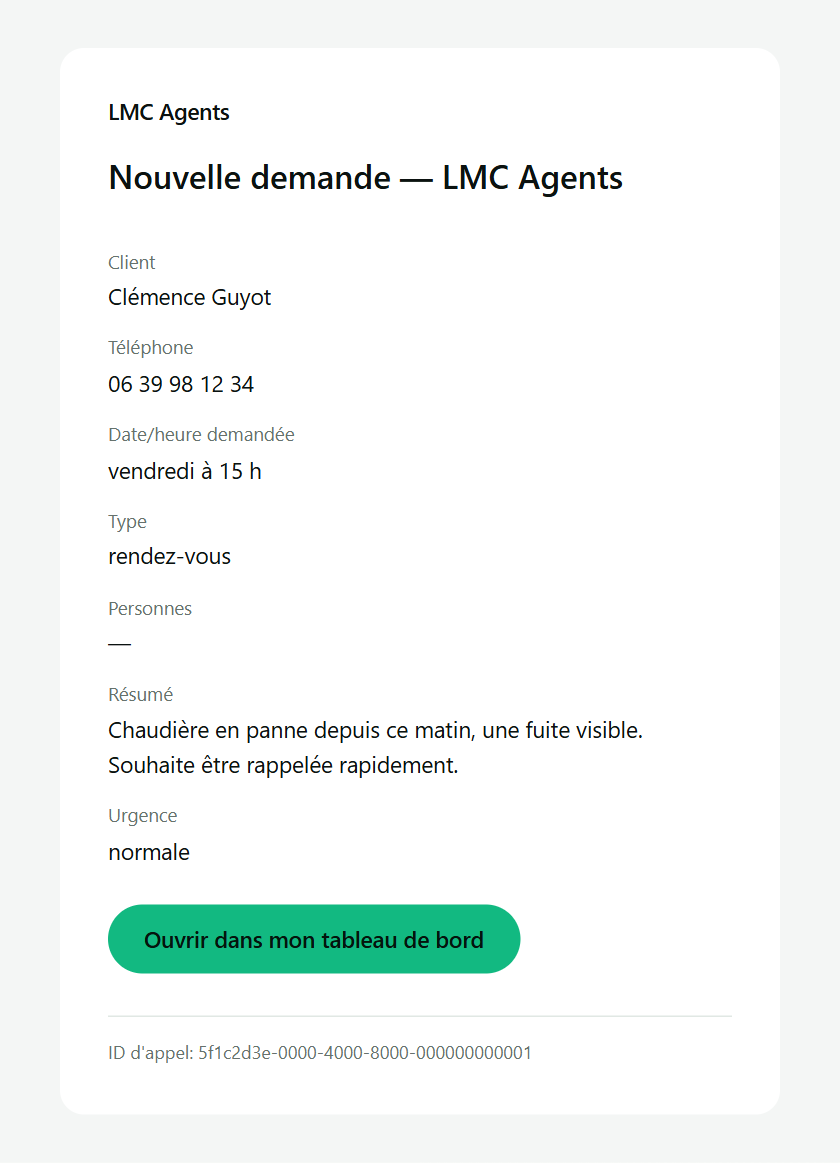
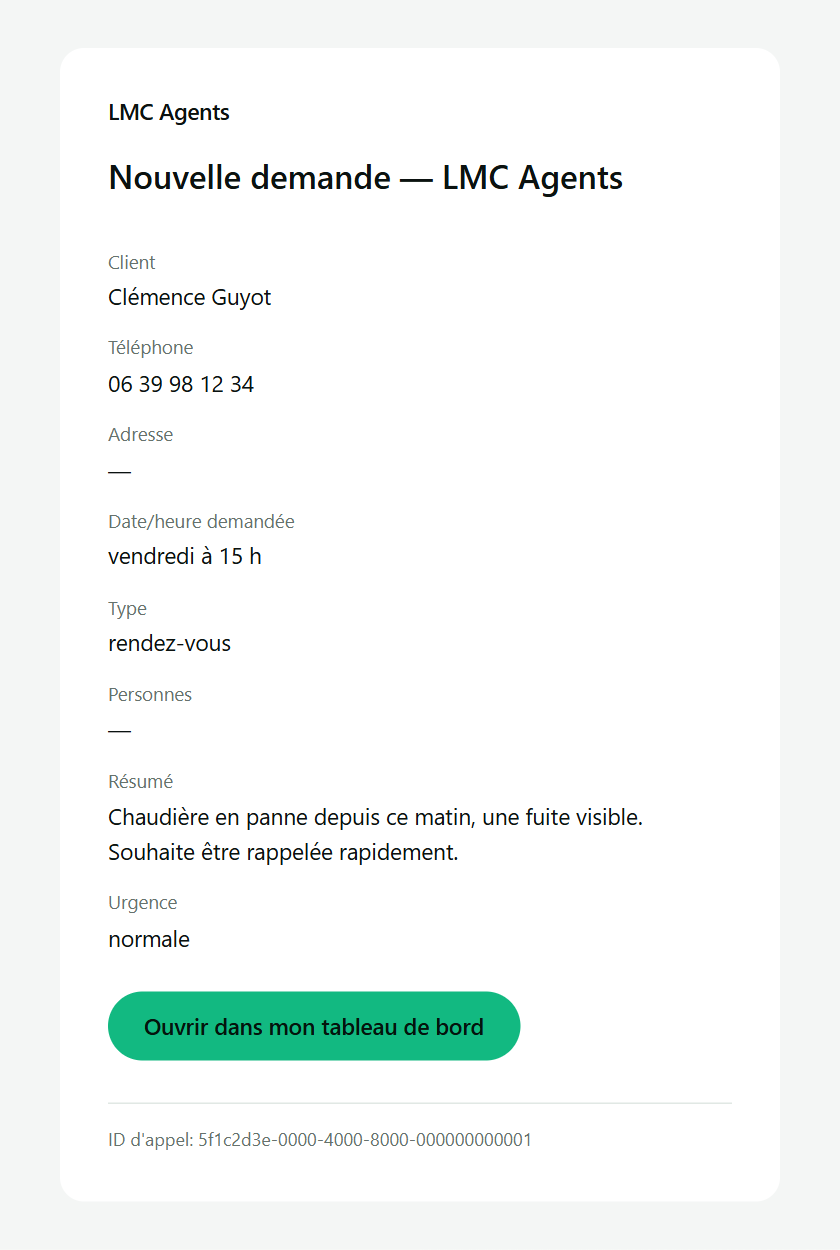
Notify restyle: keep the Address row (with Open in Maps, or a dash) in both emails, EN/ES/FR
After rebasing onto main (address field, availability hardening): the restyled layout now renders the Address row in the urgent/routine email and in the extraction-failed email (always a dash there, nothing was extracted), the inbound log line is kept next to system_timezone, tests updated (91 pass), and docs/email-previews/ re-rendered with screenshots of every variant.

diff --git a/docs/email-previews/fr-urgent.html b/docs/email-previews/fr-urgent.html
@@ -15,7 +15,7 @@
         <tr><td style="padding-bottom:14px;"><span style="display:inline-block;background:#fdecea;color:#b3261e;border-radius:999px;padding:4px 12px;font-size:12px;font-weight:600;">élevée</span></td></tr>
         <tr><td style="font-size:22px;font-weight:600;line-height:1.25;padding-bottom:10px;">Nouvelle demande — LMC Agents</td></tr>
         <tr><td style="font-size:15px;line-height:1.6;color:#33403b;padding-bottom:24px;"></td></tr>
-        <tr><td style="padding-bottom:14px;"><div style="font-size:12.5px;line-height:1.4;color:#66726d;padding-bottom:3px;">Client</div><div style="font-size:15px;line-height:1.55;color:#0b1210;">Clémence Guyot</div></td></tr><tr><td style="padding-bottom:14px;"><div style="font-size:12.5px;line-height:1.4;color:#66726d;padding-bottom:3px;">Téléphone</div><div style="font-size:15px;line-height:1.55;color:#0b1210;">06 39 98 12 34</div></td></tr><tr><td style="padding-bottom:14px;"><div style="font-size:12.5px;line-height:1.4;color:#66726d;padding-bottom:3px;">Date/heure demandée</div><div style="font-size:15px;line-height:1.55;color:#0b1210;">vendredi à 15 h</div></td></tr><tr><td style="padding-bottom:14px;"><div style="font-size:12.5px;line-height:1.4;color:#66726d;padding-bottom:3px;">Type</div><div style="font-size:15px;line-height:1.55;color:#0b1210;">rendez-vous</div></td></tr><tr><td style="padding-bottom:14px;"><div style="font-size:12.5px;line-height:1.4;color:#66726d;padding-bottom:3px;">Personnes</div><div style="font-size:15px;line-height:1.55;color:#0b1210;">—</div></td></tr><tr><td style="padding-bottom:14px;"><div style="font-size:12.5px;line-height:1.4;color:#66726d;padding-bottom:3px;">Résumé</div><div style="font-size:15px;line-height:1.55;color:#0b1210;">Chaudière en panne depuis ce matin, une fuite visible. Souhaite être rappelée rapidement.</div></td></tr><tr><td style="padding-bottom:14px;"><div style="font-size:12.5px;line-height:1.4;color:#66726d;padding-bottom:3px;">Urgence</div><div style="font-size:15px;line-height:1.55;color:#0b1210;">élevée</div></td></tr>
+        <tr><td style="padding-bottom:14px;"><div style="font-size:12.5px;line-height:1.4;color:#66726d;padding-bottom:3px;">Client</div><div style="font-size:15px;line-height:1.55;color:#0b1210;">Clémence Guyot</div></td></tr><tr><td style="padding-bottom:14px;"><div style="font-size:12.5px;line-height:1.4;color:#66726d;padding-bottom:3px;">Téléphone</div><div style="font-size:15px;line-height:1.55;color:#0b1210;">06 39 98 12 34</div></td></tr><tr><td style="padding-bottom:14px;"><div style="font-size:12.5px;line-height:1.4;color:#66726d;padding-bottom:3px;">Adresse</div><div style="font-size:15px;line-height:1.55;color:#0b1210;">14 rue des Tilleuls, Lyon<br><a href="https://www.google.com/maps/search/?api=1&amp;query=14%20rue%20des%20Tilleuls%2C%20Lyon" style="font-size:13px;font-weight:600;color:#0a8f64;text-decoration:none;">Ouvrir dans Maps →</a></div></td></tr><tr><td style="padding-bottom:14px;"><div style="font-size:12.5px;line-height:1.4;color:#66726d;padding-bottom:3px;">Date/heure demandée</div><div style="font-size:15px;line-height:1.55;color:#0b1210;">vendredi à 15 h</div></td></tr><tr><td style="padding-bottom:14px;"><div style="font-size:12.5px;line-height:1.4;color:#66726d;padding-bottom:3px;">Type</div><div style="font-size:15px;line-height:1.55;color:#0b1210;">rendez-vous</div></td></tr><tr><td style="padding-bottom:14px;"><div style="font-size:12.5px;line-height:1.4;color:#66726d;padding-bottom:3px;">Personnes</div><div style="font-size:15px;line-height:1.55;color:#0b1210;">—</div></td></tr><tr><td style="padding-bottom:14px;"><div style="font-size:12.5px;line-height:1.4;color:#66726d;padding-bottom:3px;">Résumé</div><div style="font-size:15px;line-height:1.55;color:#0b1210;">Chaudière en panne depuis ce matin, une fuite visible. Souhaite être rappelée rapidement.</div></td></tr><tr><td style="padding-bottom:14px;"><div style="font-size:12.5px;line-height:1.4;color:#66726d;padding-bottom:3px;">Urgence</div><div style="font-size:15px;line-height:1.55;color:#0b1210;">élevée</div></td></tr>
         <tr><td style="padding-top:10px;padding-bottom:28px;"><a href="https://www.lmcagents.app/dashboard/calls/5f1c2d3e-0000-4000-8000-000000000001" style="display:inline-block;background:#12b981;color:#04140d;font-size:15px;font-weight:600;text-decoration:none;padding:13px 24px;border-radius:999px;">Ouvrir dans mon tableau de bord</a></td></tr>
         <tr><td style="font-size:12px;line-height:1.6;color:#66726d;border-top:1px solid #e1e8e4;padding-top:14px;">ID d'appel: 5f1c2d3e-0000-4000-8000-000000000001</td></tr>
       </table>

diff --git a/docs/email-previews/es-urgent.html b/docs/email-previews/es-urgent.html
@@ -15,7 +15,7 @@
         <tr><td style="padding-bottom:14px;"><span style="display:inline-block;background:#fdecea;color:#b3261e;border-radius:999px;padding:4px 12px;font-size:12px;font-weight:600;">alta</span></td></tr>
         <tr><td style="font-size:22px;font-weight:600;line-height:1.25;padding-bottom:10px;">Nueva solicitud — LMC Agents</td></tr>
         <tr><td style="font-size:15px;line-height:1.6;color:#33403b;padding-bottom:24px;"></td></tr>
-        <tr><td style="padding-bottom:14px;"><div style="font-size:12.5px;line-height:1.4;color:#66726d;padding-bottom:3px;">Cliente</div><div style="font-size:15px;line-height:1.55;color:#0b1210;">Diego Salvatierra</div></td></tr><tr><td style="padding-bottom:14px;"><div style="font-size:12.5px;line-height:1.4;color:#66726d;padding-bottom:3px;">Teléfono</div><div style="font-size:15px;line-height:1.55;color:#0b1210;">+34 6•• ••• 482</div></td></tr><tr><td style="padding-bottom:14px;"><div style="font-size:12.5px;line-height:1.4;color:#66726d;padding-bottom:3px;">Fecha/hora solicitada</div><div style="font-size:15px;line-height:1.55;color:#0b1210;">el viernes a las 15:00</div></td></tr><tr><td style="padding-bottom:14px;"><div style="font-size:12.5px;line-height:1.4;color:#66726d;padding-bottom:3px;">Tipo</div><div style="font-size:15px;line-height:1.55;color:#0b1210;">cita</div></td></tr><tr><td style="padding-bottom:14px;"><div style="font-size:12.5px;line-height:1.4;color:#66726d;padding-bottom:3px;">Personas</div><div style="font-size:15px;line-height:1.55;color:#0b1210;">—</div></td></tr><tr><td style="padding-bottom:14px;"><div style="font-size:12.5px;line-height:1.4;color:#66726d;padding-bottom:3px;">Resumen</div><div style="font-size:15px;line-height:1.55;color:#0b1210;">Sin agua caliente en la vivienda desde ayer. Pide que alguien pase hoy si es posible.</div></td></tr><tr><td style="padding-bottom:14px;"><div style="font-size:12.5px;line-height:1.4;color:#66726d;padding-bottom:3px;">Urgencia</div><div style="font-size:15px;line-height:1.55;color:#0b1210;">alta</div></td></tr>
+        <tr><td style="padding-bottom:14px;"><div style="font-size:12.5px;line-height:1.4;color:#66726d;padding-bottom:3px;">Cliente</div><div style="font-size:15px;line-height:1.55;color:#0b1210;">Diego Salvatierra</div></td></tr><tr><td style="padding-bottom:14px;"><div style="font-size:12.5px;line-height:1.4;color:#66726d;padding-bottom:3px;">Teléfono</div><div style="font-size:15px;line-height:1.55;color:#0b1210;">+34 6•• ••• 482</div></td></tr><tr><td style="padding-bottom:14px;"><div style="font-size:12.5px;line-height:1.4;color:#66726d;padding-bottom:3px;">Dirección</div><div style="font-size:15px;line-height:1.55;color:#0b1210;">Calle de los Olmos 14, Zaragoza<br><a href="https://www.google.com/maps/search/?api=1&amp;query=Calle%20de%20los%20Olmos%2014%2C%20Zaragoza" style="font-size:13px;font-weight:600;color:#0a8f64;text-decoration:none;">Abrir en Maps →</a></div></td></tr><tr><td style="padding-bottom:14px;"><div style="font-size:12.5px;line-height:1.4;color:#66726d;padding-bottom:3px;">Fecha/hora solicitada</div><div style="font-size:15px;line-height:1.55;color:#0b1210;">el viernes a las 15:00</div></td></tr><tr><td style="padding-bottom:14px;"><div style="font-size:12.5px;line-height:1.4;color:#66726d;padding-bottom:3px;">Tipo</div><div style="font-size:15px;line-height:1.55;color:#0b1210;">cita</div></td></tr><tr><td style="padding-bottom:14px;"><div style="font-size:12.5px;line-height:1.4;color:#66726d;padding-bottom:3px;">Personas</div><div style="font-size:15px;line-height:1.55;color:#0b1210;">—</div></td></tr><tr><td style="padding-bottom:14px;"><div style="font-size:12.5px;line-height:1.4;color:#66726d;padding-bottom:3px;">Resumen</div><div style="font-size:15px;line-height:1.55;color:#0b1210;">Sin agua caliente en la vivienda desde ayer. Pide que alguien pase hoy si es posible.</div></td></tr><tr><td style="padding-bottom:14px;"><div style="font-size:12.5px;line-height:1.4;color:#66726d;padding-bottom:3px;">Urgencia</div><div style="font-size:15px;line-height:1.55;color:#0b1210;">alta</div></td></tr>
         <tr><td style="padding-top:10px;padding-bottom:28px;"><a href="https://www.lmcagents.app/dashboard/calls/5f1c2d3e-0000-4000-8000-000000000001" style="display:inline-block;background:#12b981;color:#04140d;font-size:15px;font-weight:600;text-decoration:none;padding:13px 24px;border-radius:999px;">Abrir en mi panel</a></td></tr>
         <tr><td style="font-size:12px;line-height:1.6;color:#66726d;border-top:1px solid #e1e8e4;padding-top:14px;">ID de llamada: 5f1c2d3e-0000-4000-8000-000000000001</td></tr>
       </table>

diff --git a/docs/email-previews/en-urgent.html b/docs/email-previews/en-urgent.html
@@ -15,7 +15,7 @@
         <tr><td style="padding-bottom:14px;"><span style="display:inline-block;background:#fdecea;color:#b3261e;border-radius:999px;padding:4px 12px;font-size:12px;font-weight:600;">high</span></td></tr>
         <tr><td style="font-size:22px;font-weight:600;line-height:1.25;padding-bottom:10px;">New request — LMC Agents</td></tr>
         <tr><td style="font-size:15px;line-height:1.6;color:#33403b;padding-bottom:24px;"></td></tr>
-        <tr><td style="padding-bottom:14px;"><div style="font-size:12.5px;line-height:1.4;color:#66726d;padding-bottom:3px;">Client</div><div style="font-size:15px;line-height:1.55;color:#0b1210;">Megan Pollard</div></td></tr><tr><td style="padding-bottom:14px;"><div style="font-size:12.5px;line-height:1.4;color:#66726d;padding-bottom:3px;">Phone</div><div style="font-size:15px;line-height:1.55;color:#0b1210;">07700 900123</div></td></tr><tr><td style="padding-bottom:14px;"><div style="font-size:12.5px;line-height:1.4;color:#66726d;padding-bottom:3px;">Requested date/time</div><div style="font-size:15px;line-height:1.55;color:#0b1210;">Friday at 3 pm</div></td></tr><tr><td style="padding-bottom:14px;"><div style="font-size:12.5px;line-height:1.4;color:#66726d;padding-bottom:3px;">Type</div><div style="font-size:15px;line-height:1.55;color:#0b1210;">appointment</div></td></tr><tr><td style="padding-bottom:14px;"><div style="font-size:12.5px;line-height:1.4;color:#66726d;padding-bottom:3px;">Party size</div><div style="font-size:15px;line-height:1.55;color:#0b1210;">—</div></td></tr><tr><td style="padding-bottom:14px;"><div style="font-size:12.5px;line-height:1.4;color:#66726d;padding-bottom:3px;">Summary</div><div style="font-size:15px;line-height:1.55;color:#0b1210;">Blocked toilet overflowing, needs someone today. Access through the side gate.</div></td></tr><tr><td style="padding-bottom:14px;"><div style="font-size:12.5px;line-height:1.4;color:#66726d;padding-bottom:3px;">Urgency</div><div style="font-size:15px;line-height:1.55;color:#0b1210;">high</div></td></tr>
+        <tr><td style="padding-bottom:14px;"><div style="font-size:12.5px;line-height:1.4;color:#66726d;padding-bottom:3px;">Client</div><div style="font-size:15px;line-height:1.55;color:#0b1210;">Megan Pollard</div></td></tr><tr><td style="padding-bottom:14px;"><div style="font-size:12.5px;line-height:1.4;color:#66726d;padding-bottom:3px;">Phone</div><div style="font-size:15px;line-height:1.55;color:#0b1210;">07700 900123</div></td></tr><tr><td style="padding-bottom:14px;"><div style="font-size:12.5px;line-height:1.4;color:#66726d;padding-bottom:3px;">Address</div><div style="font-size:15px;line-height:1.55;color:#0b1210;">14 Hawthorn Road, Leeds<br><a href="https://www.google.com/maps/search/?api=1&amp;query=14%20Hawthorn%20Road%2C%20Leeds" style="font-size:13px;font-weight:600;color:#0a8f64;text-decoration:none;">Open in Maps →</a></div></td></tr><tr><td style="padding-bottom:14px;"><div style="font-size:12.5px;line-height:1.4;color:#66726d;padding-bottom:3px;">Requested date/time</div><div style="font-size:15px;line-height:1.55;color:#0b1210;">Friday at 3 pm</div></td></tr><tr><td style="padding-bottom:14px;"><div style="font-size:12.5px;line-height:1.4;color:#66726d;padding-bottom:3px;">Type</div><div style="font-size:15px;line-height:1.55;color:#0b1210;">appointment</div></td></tr><tr><td style="padding-bottom:14px;"><div style="font-size:12.5px;line-height:1.4;color:#66726d;padding-bottom:3px;">Party size</div><div style="font-size:15px;line-height:1.55;color:#0b1210;">—</div></td></tr><tr><td style="padding-bottom:14px;"><div style="font-size:12.5px;line-height:1.4;color:#66726d;padding-bottom:3px;">Summary</div><div style="font-size:15px;line-height:1.55;color:#0b1210;">Blocked toilet overflowing, needs someone today. Access through the side gate.</div></td></tr><tr><td style="padding-bottom:14px;"><div style="font-size:12.5px;line-height:1.4;color:#66726d;padding-bottom:3px;">Urgency</div><div style="font-size:15px;line-height:1.55;color:#0b1210;">high</div></td></tr>
         <tr><td style="padding-top:10px;padding-bottom:28px;"><a href="https://www.lmcagents.app/dashboard/calls/5f1c2d3e-0000-4000-8000-000000000001" style="display:inline-block;background:#12b981;color:#04140d;font-size:15px;font-weight:600;text-decoration:none;padding:13px 24px;border-radius:999px;">Open in my dashboard</a></td></tr>
         <tr><td style="font-size:12px;line-height:1.6;color:#66726d;border-top:1px solid #e1e8e4;padding-top:14px;">Call ID: 5f1c2d3e-0000-4000-8000-000000000001</td></tr>
       </table>

diff --git a/docs/email-previews/fr-routine.html b/docs/email-previews/fr-routine.html
@@ -15,7 +15,7 @@
         
         <tr><td style="font-size:22px;font-weight:600;line-height:1.25;padding-bottom:10px;">Nouvelle demande — LMC Agents</td></tr>
         <tr><td style="font-size:15px;line-height:1.6;color:#33403b;padding-bottom:24px;"></td></tr>
-        <tr><td style="padding-bottom:14px;"><div style="font-size:12.5px;line-height:1.4;color:#66726d;padding-bottom:3px;">Client</div><div style="font-size:15px;line-height:1.55;color:#0b1210;">Clémence Guyot</div></td></tr><tr><td style="padding-bottom:14px;"><div style="font-size:12.5px;line-height:1.4;color:#66726d;padding-bottom:3px;">Téléphone</div><div style="font-size:15px;line-height:1.55;color:#0b1210;">06 39 98 12 34</div></td></tr><tr><td style="padding-bottom:14px;"><div style="font-size:12.5px;line-height:1.4;color:#66726d;padding-bottom:3px;">Date/heure demandée</div><div style="font-size:15px;line-height:1.55;color:#0b1210;">vendredi à 15 h</div></td></tr><tr><td style="padding-bottom:14px;"><div style="font-size:12.5px;line-height:1.4;color:#66726d;padding-bottom:3px;">Type</div><div style="font-size:15px;line-height:1.55;color:#0b1210;">rendez-vous</div></td></tr><tr><td style="padding-bottom:14px;"><div style="font-size:12.5px;line-height:1.4;color:#66726d;padding-bottom:3px;">Personnes</div><div style="font-size:15px;line-height:1.55;color:#0b1210;">—</div></td></tr><tr><td style="padding-bottom:14px;"><div style="font-size:12.5px;line-height:1.4;color:#66726d;padding-bottom:3px;">Résumé</div><div style="font-size:15px;line-height:1.55;color:#0b1210;">Chaudière en panne depuis ce matin, une fuite visible. Souhaite être rappelée rapidement.</div></td></tr><tr><td style="padding-bottom:14px;"><div style="font-size:12.5px;line-height:1.4;color:#66726d;padding-bottom:3px;">Urgence</div><div style="font-size:15px;line-height:1.55;color:#0b1210;">normale</div></td></tr>
+        <tr><td style="padding-bottom:14px;"><div style="font-size:12.5px;line-height:1.4;color:#66726d;padding-bottom:3px;">Client</div><div style="font-size:15px;line-height:1.55;color:#0b1210;">Clémence Guyot</div></td></tr><tr><td style="padding-bottom:14px;"><div style="font-size:12.5px;line-height:1.4;color:#66726d;padding-bottom:3px;">Téléphone</div><div style="font-size:15px;line-height:1.55;color:#0b1210;">06 39 98 12 34</div></td></tr><tr><td style="padding-bottom:14px;"><div style="font-size:12.5px;line-height:1.4;color:#66726d;padding-bottom:3px;">Adresse</div><div style="font-size:15px;line-height:1.55;color:#0b1210;">—</div></td></tr><tr><td style="padding-bottom:14px;"><div style="font-size:12.5px;line-height:1.4;color:#66726d;padding-bottom:3px;">Date/heure demandée</div><div style="font-size:15px;line-height:1.55;color:#0b1210;">vendredi à 15 h</div></td></tr><tr><td style="padding-bottom:14px;"><div style="font-size:12.5px;line-height:1.4;color:#66726d;padding-bottom:3px;">Type</div><div style="font-size:15px;line-height:1.55;color:#0b1210;">rendez-vous</div></td></tr><tr><td style="padding-bottom:14px;"><div style="font-size:12.5px;line-height:1.4;color:#66726d;padding-bottom:3px;">Personnes</div><div style="font-size:15px;line-height:1.55;color:#0b1210;">—</div></td></tr><tr><td style="padding-bottom:14px;"><div style="font-size:12.5px;line-height:1.4;color:#66726d;padding-bottom:3px;">Résumé</div><div style="font-size:15px;line-height:1.55;color:#0b1210;">Chaudière en panne depuis ce matin, une fuite visible. Souhaite être rappelée rapidement.</div></td></tr><tr><td style="padding-bottom:14px;"><div style="font-size:12.5px;line-height:1.4;color:#66726d;padding-bottom:3px;">Urgence</div><div style="font-size:15px;line-height:1.55;color:#0b1210;">normale</div></td></tr>
         <tr><td style="padding-top:10px;padding-bottom:28px;"><a href="https://www.lmcagents.app/dashboard/calls/5f1c2d3e-0000-4000-8000-000000000001" style="display:inline-block;background:#12b981;color:#04140d;font-size:15px;font-weight:600;text-decoration:none;padding:13px 24px;border-radius:999px;">Ouvrir dans mon tableau de bord</a></td></tr>
         <tr><td style="font-size:12px;line-height:1.6;color:#66726d;border-top:1px solid #e1e8e4;padding-top:14px;">ID d'appel: 5f1c2d3e-0000-4000-8000-000000000001</td></tr>
       </table>

diff --git a/docs/email-previews/es-routine.html b/docs/email-previews/es-routine.html
@@ -15,7 +15,7 @@
         
         <tr><td style="font-size:22px;font-weight:600;line-height:1.25;padding-bottom:10px;">Nueva solicitud — LMC Agents</td></tr>
         <tr><td style="font-size:15px;line-height:1.6;color:#33403b;padding-bottom:24px;"></td></tr>
-        <tr><td style="padding-bottom:14px;"><div style="font-size:12.5px;line-height:1.4;color:#66726d;padding-bottom:3px;">Cliente</div><div style="font-size:15px;line-height:1.55;color:#0b1210;">Diego Salvatierra</div></td></tr><tr><td style="padding-bottom:14px;"><div style="font-size:12.5px;line-height:1.4;color:#66726d;padding-bottom:3px;">Teléfono</div><div style="font-size:15px;line-height:1.55;color:#0b1210;">+34 6•• ••• 482</div></td></tr><tr><td style="padding-bottom:14px;"><div style="font-size:12.5px;line-height:1.4;color:#66726d;padding-bottom:3px;">Fecha/hora solicitada</div><div style="font-size:15px;line-height:1.55;color:#0b1210;">el viernes a las 15:00</div></td></tr><tr><td style="padding-bottom:14px;"><div style="font-size:12.5px;line-height:1.4;color:#66726d;padding-bottom:3px;">Tipo</div><div style="font-size:15px;line-height:1.55;color:#0b1210;">cita</div></td></tr><tr><td style="padding-bottom:14px;"><div style="font-size:12.5px;line-height:1.4;color:#66726d;padding-bottom:3px;">Personas</div><div style="font-size:15px;line-height:1.55;color:#0b1210;">—</div></td></tr><tr><td style="padding-bottom:14px;"><div style="font-size:12.5px;line-height:1.4;color:#66726d;padding-bottom:3px;">Resumen</div><div style="font-size:15px;line-height:1.55;color:#0b1210;">Sin agua caliente en la vivienda desde ayer. Pide que alguien pase hoy si es posible.</div></td></tr><tr><td style="padding-bottom:14px;"><div style="font-size:12.5px;line-height:1.4;color:#66726d;padding-bottom:3px;">Urgencia</div><div style="font-size:15px;line-height:1.55;color:#0b1210;">normal</div></td></tr>
+        <tr><td style="padding-bottom:14px;"><div style="font-size:12.5px;line-height:1.4;color:#66726d;padding-bottom:3px;">Cliente</div><div style="font-size:15px;line-height:1.55;color:#0b1210;">Diego Salvatierra</div></td></tr><tr><td style="padding-bottom:14px;"><div style="font-size:12.5px;line-height:1.4;color:#66726d;padding-bottom:3px;">Teléfono</div><div style="font-size:15px;line-height:1.55;color:#0b1210;">+34 6•• ••• 482</div></td></tr><tr><td style="padding-bottom:14px;"><div style="font-size:12.5px;line-height:1.4;color:#66726d;padding-bottom:3px;">Dirección</div><div style="font-size:15px;line-height:1.55;color:#0b1210;">—</div></td></tr><tr><td style="padding-bottom:14px;"><div style="font-size:12.5px;line-height:1.4;color:#66726d;padding-bottom:3px;">Fecha/hora solicitada</div><div style="font-size:15px;line-height:1.55;color:#0b1210;">el viernes a las 15:00</div></td></tr><tr><td style="padding-bottom:14px;"><div style="font-size:12.5px;line-height:1.4;color:#66726d;padding-bottom:3px;">Tipo</div><div style="font-size:15px;line-height:1.55;color:#0b1210;">cita</div></td></tr><tr><td style="padding-bottom:14px;"><div style="font-size:12.5px;line-height:1.4;color:#66726d;padding-bottom:3px;">Personas</div><div style="font-size:15px;line-height:1.55;color:#0b1210;">—</div></td></tr><tr><td style="padding-bottom:14px;"><div style="font-size:12.5px;line-height:1.4;color:#66726d;padding-bottom:3px;">Resumen</div><div style="font-size:15px;line-height:1.55;color:#0b1210;">Sin agua caliente en la vivienda desde ayer. Pide que alguien pase hoy si es posible.</div></td></tr><tr><td style="padding-bottom:14px;"><div style="font-size:12.5px;line-height:1.4;color:#66726d;padding-bottom:3px;">Urgencia</div><div style="font-size:15px;line-height:1.55;color:#0b1210;">normal</div></td></tr>
         <tr><td style="padding-top:10px;padding-bottom:28px;"><a href="https://www.lmcagents.app/dashboard/calls/5f1c2d3e-0000-4000-8000-000000000001" style="display:inline-block;background:#12b981;color:#04140d;font-size:15px;font-weight:600;text-decoration:none;padding:13px 24px;border-radius:999px;">Abrir en mi panel</a></td></tr>
         <tr><td style="font-size:12px;line-height:1.6;color:#66726d;border-top:1px solid #e1e8e4;padding-top:14px;">ID de llamada: 5f1c2d3e-0000-4000-8000-000000000001</td></tr>
       </table>

diff --git a/docs/email-previews/en-routine.html b/docs/email-previews/en-routine.html
@@ -15,7 +15,7 @@
         
         <tr><td style="font-size:22px;font-weight:600;line-height:1.25;padding-bottom:10px;">New request — LMC Agents</td></tr>
         <tr><td style="font-size:15px;line-height:1.6;color:#33403b;padding-bottom:24px;"></td></tr>
-        <tr><td style="padding-bottom:14px;"><div style="font-size:12.5px;line-height:1.4;color:#66726d;padding-bottom:3px;">Client</div><div style="font-size:15px;line-height:1.55;color:#0b1210;">Megan Pollard</div></td></tr><tr><td style="padding-bottom:14px;"><div style="font-size:12.5px;line-height:1.4;color:#66726d;padding-bottom:3px;">Phone</div><div style="font-size:15px;line-height:1.55;color:#0b1210;">07700 900123</div></td></tr><tr><td style="padding-bottom:14px;"><div style="font-size:12.5px;line-height:1.4;color:#66726d;padding-bottom:3px;">Requested date/time</div><div style="font-size:15px;line-height:1.55;color:#0b1210;">Friday at 3 pm</div></td></tr><tr><td style="padding-bottom:14px;"><div style="font-size:12.5px;line-height:1.4;color:#66726d;padding-bottom:3px;">Type</div><div style="font-size:15px;line-height:1.55;color:#0b1210;">appointment</div></td></tr><tr><td style="padding-bottom:14px;"><div style="font-size:12.5px;line-height:1.4;color:#66726d;padding-bottom:3px;">Party size</div><div style="font-size:15px;line-height:1.55;color:#0b1210;">—</div></td></tr><tr><td style="padding-bottom:14px;"><div style="font-size:12.5px;line-height:1.4;color:#66726d;padding-bottom:3px;">Summary</div><div style="font-size:15px;line-height:1.55;color:#0b1210;">Blocked toilet overflowing, needs someone today. Access through the side gate.</div></td></tr><tr><td style="padding-bottom:14px;"><div style="font-size:12.5px;line-height:1.4;color:#66726d;padding-bottom:3px;">Urgency</div><div style="font-size:15px;line-height:1.55;color:#0b1210;">normal</div></td></tr>
+        <tr><td style="padding-bottom:14px;"><div style="font-size:12.5px;line-height:1.4;color:#66726d;padding-bottom:3px;">Client</div><div style="font-size:15px;line-height:1.55;color:#0b1210;">Megan Pollard</div></td></tr><tr><td style="padding-bottom:14px;"><div style="font-size:12.5px;line-height:1.4;color:#66726d;padding-bottom:3px;">Phone</div><div style="font-size:15px;line-height:1.55;color:#0b1210;">07700 900123</div></td></tr><tr><td style="padding-bottom:14px;"><div style="font-size:12.5px;line-height:1.4;color:#66726d;padding-bottom:3px;">Address</div><div style="font-size:15px;line-height:1.55;color:#0b1210;">—</div></td></tr><tr><td style="padding-bottom:14px;"><div style="font-size:12.5px;line-height:1.4;color:#66726d;padding-bottom:3px;">Requested date/time</div><div style="font-size:15px;line-height:1.55;color:#0b1210;">Friday at 3 pm</div></td></tr><tr><td style="padding-bottom:14px;"><div style="font-size:12.5px;line-height:1.4;color:#66726d;padding-bottom:3px;">Type</div><div style="font-size:15px;line-height:1.55;color:#0b1210;">appointment</div></td></tr><tr><td style="padding-bottom:14px;"><div style="font-size:12.5px;line-height:1.4;color:#66726d;padding-bottom:3px;">Party size</div><div style="font-size:15px;line-height:1.55;color:#0b1210;">—</div></td></tr><tr><td style="padding-bottom:14px;"><div style="font-size:12.5px;line-height:1.4;color:#66726d;padding-bottom:3px;">Summary</div><div style="font-size:15px;line-height:1.55;color:#0b1210;">Blocked toilet overflowing, needs someone today. Access through the side gate.</div></td></tr><tr><td style="padding-bottom:14px;"><div style="font-size:12.5px;line-height:1.4;color:#66726d;padding-bottom:3px;">Urgency</div><div style="font-size:15px;line-height:1.55;color:#0b1210;">normal</div></td></tr>
         <tr><td style="padding-top:10px;padding-bottom:28px;"><a href="https://www.lmcagents.app/dashboard/calls/5f1c2d3e-0000-4000-8000-000000000001" style="display:inline-block;background:#12b981;color:#04140d;font-size:15px;font-weight:600;text-decoration:none;padding:13px 24px;border-radius:999px;">Open in my dashboard</a></td></tr>
         <tr><td style="font-size:12px;line-height:1.6;color:#66726d;border-top:1px solid #e1e8e4;padding-top:14px;">Call ID: 5f1c2d3e-0000-4000-8000-000000000001</td></tr>
       </table>

diff --git a/docs/email-previews/fr-needs-review.html b/docs/email-previews/fr-needs-review.html
@@ -15,7 +15,7 @@
         
         <tr><td style="font-size:22px;font-weight:600;line-height:1.25;padding-bottom:10px;">Appel à vérifier — LMC Agents</td></tr>
         <tr><td style="font-size:15px;line-height:1.6;color:#33403b;padding-bottom:24px;">Nous n’avons pas pu analyser cet appel automatiquement. La transcription est enregistrée : ouvrez-la dans votre tableau de bord (Appels) pour la relire.</td></tr>
-        <tr><td style="padding-bottom:14px;"><div style="font-size:12.5px;line-height:1.4;color:#66726d;padding-bottom:3px;">Téléphone</div><div style="font-size:15px;line-height:1.55;color:#0b1210;">06 39 98 12 34</div></td></tr>
+        <tr><td style="padding-bottom:14px;"><div style="font-size:12.5px;line-height:1.4;color:#66726d;padding-bottom:3px;">Téléphone</div><div style="font-size:15px;line-height:1.55;color:#0b1210;">06 39 98 12 34</div></td></tr><tr><td style="padding-bottom:14px;"><div style="font-size:12.5px;line-height:1.4;color:#66726d;padding-bottom:3px;">Adresse</div><div style="font-size:15px;line-height:1.55;color:#0b1210;">—</div></td></tr>
         <tr><td style="padding-top:10px;padding-bottom:28px;"><a href="https://www.lmcagents.app/dashboard/calls/5f1c2d3e-0000-4000-8000-000000000002" style="display:inline-block;background:#12b981;color:#04140d;font-size:15px;font-weight:600;text-decoration:none;padding:13px 24px;border-radius:999px;">Ouvrir dans mon tableau de bord</a></td></tr>
         <tr><td style="font-size:12px;line-height:1.6;color:#66726d;border-top:1px solid #e1e8e4;padding-top:14px;">ID d'appel: 5f1c2d3e-0000-4000-8000-000000000002</td></tr>
       </table>

diff --git a/docs/email-previews/es-needs-review.html b/docs/email-previews/es-needs-review.html
@@ -15,7 +15,7 @@
         
         <tr><td style="font-size:22px;font-weight:600;line-height:1.25;padding-bottom:10px;">Llamada por revisar — LMC Agents</td></tr>
         <tr><td style="font-size:15px;line-height:1.6;color:#33403b;padding-bottom:24px;">No hemos podido leer esta llamada automáticamente. La transcripción está guardada: ábrela en tu panel (Llamadas) para revisarla.</td></tr>
-        <tr><td style="padding-bottom:14px;"><div style="font-size:12.5px;line-height:1.4;color:#66726d;padding-bottom:3px;">Teléfono</div><div style="font-size:15px;line-height:1.55;color:#0b1210;">+34 6•• ••• 482</div></td></tr>
+        <tr><td style="padding-bottom:14px;"><div style="font-size:12.5px;line-height:1.4;color:#66726d;padding-bottom:3px;">Teléfono</div><div style="font-size:15px;line-height:1.55;color:#0b1210;">+34 6•• ••• 482</div></td></tr><tr><td style="padding-bottom:14px;"><div style="font-size:12.5px;line-height:1.4;color:#66726d;padding-bottom:3px;">Dirección</div><div style="font-size:15px;line-height:1.55;color:#0b1210;">—</div></td></tr>
         <tr><td style="padding-top:10px;padding-bottom:28px;"><a href="https://www.lmcagents.app/dashboard/calls/5f1c2d3e-0000-4000-8000-000000000002" style="display:inline-block;background:#12b981;color:#04140d;font-size:15px;font-weight:600;text-decoration:none;padding:13px 24px;border-radius:999px;">Abrir en mi panel</a></td></tr>
         <tr><td style="font-size:12px;line-height:1.6;color:#66726d;border-top:1px solid #e1e8e4;padding-top:14px;">ID de llamada: 5f1c2d3e-0000-4000-8000-000000000002</td></tr>
       </table>

diff --git a/docs/email-previews/en-needs-review.html b/docs/email-previews/en-needs-review.html
@@ -15,7 +15,7 @@
         
         <tr><td style="font-size:22px;font-weight:600;line-height:1.25;padding-bottom:10px;">Call needs review — LMC Agents</td></tr>
         <tr><td style="font-size:15px;line-height:1.6;color:#33403b;padding-bottom:24px;">We couldn't read this call automatically. The transcript is saved: open it in your dashboard (Calls) to review it.</td></tr>
-        <tr><td style="padding-bottom:14px;"><div style="font-size:12.5px;line-height:1.4;color:#66726d;padding-bottom:3px;">Phone</div><div style="font-size:15px;line-height:1.55;color:#0b1210;">07700 900123</div></td></tr>
+        <tr><td style="padding-bottom:14px;"><div style="font-size:12.5px;line-height:1.4;color:#66726d;padding-bottom:3px;">Phone</div><div style="font-size:15px;line-height:1.55;color:#0b1210;">07700 900123</div></td></tr><tr><td style="padding-bottom:14px;"><div style="font-size:12.5px;line-height:1.4;color:#66726d;padding-bottom:3px;">Address</div><div style="font-size:15px;line-height:1.55;color:#0b1210;">—</div></td></tr>
         <tr><td style="padding-top:10px;padding-bottom:28px;"><a href="https://www.lmcagents.app/dashboard/calls/5f1c2d3e-0000-4000-8000-000000000002" style="display:inline-block;background:#12b981;color:#04140d;font-size:15px;font-weight:600;text-decoration:none;padding:13px 24px;border-radius:999px;">Open in my dashboard</a></td></tr>
         <tr><td style="font-size:12px;line-height:1.6;color:#66726d;border-top:1px solid #e1e8e4;padding-top:14px;">Call ID: 5f1c2d3e-0000-4000-8000-000000000002</td></tr>
       </table>

diff --git a/backend/scripts/render_email_previews.py b/backend/scripts/render_email_previews.py
@@ -14,14 +14,16 @@ OUT = sys.argv[1] if len(sys.argv) > 1 else os.path.join(os.path.dirname(__file_
 os.makedirs(OUT, exist_ok=True)
 
 CALLERS = {
-    "en": dict(caller_name="Megan Pollard", caller_phone="07700 900123", preferred_time="Friday at 3 pm", summary="Blocked toilet overflowing, needs someone today. Access through the side gate."),
-    "es": dict(caller_name="Diego Salvatierra", caller_phone="+34 6•• ••• 482", preferred_time="el viernes a las 15:00", summary="Sin agua caliente en la vivienda desde ayer. Pide que alguien pase hoy si es posible."),
-    "fr": dict(caller_name="Clémence Guyot", caller_phone="06 39 98 12 34", preferred_time="vendredi à 15 h", summary="Chaudière en panne depuis ce matin, une fuite visible. Souhaite être rappelée rapidement."),
+    "en": dict(caller_name="Megan Pollard", caller_phone="07700 900123", address="14 Hawthorn Road, Leeds", preferred_time="Friday at 3 pm", summary="Blocked toilet overflowing, needs someone today. Access through the side gate."),
+    "es": dict(caller_name="Diego Salvatierra", caller_phone="+34 6•• ••• 482", address="Calle de los Olmos 14, Zaragoza", preferred_time="el viernes a las 15:00", summary="Sin agua caliente en la vivienda desde ayer. Pide que alguien pase hoy si es posible."),
+    "fr": dict(caller_name="Clémence Guyot", caller_phone="06 39 98 12 34", address="14 rue des Tilleuls, Lyon", preferred_time="vendredi à 15 h", summary="Chaudière en panne depuis ce matin, une fuite visible. Souhaite être rappelée rapidement."),
 }
 for lang, c in CALLERS.items():
     biz = {"id": "demo", "name": "LMC Agents", "language": lang, "notification_email": "hello@lmcagents.example"}
     for kind, urgency in (("urgent", "high"), ("routine", "normal")):
+        # the urgent email carries an address; the routine one shows the dash (no address given)
         ex = SimpleNamespace(caller_name=c["caller_name"], caller_phone=c["caller_phone"], preferred_time=c["preferred_time"],
+                             address=c["address"] if kind == "urgent" else None,
                              booking_type="appointment", party_size=None, summary=c["summary"], urgency=urgency)
         _, html = notify.render_owner_email(biz, ex, "5f1c2d3e-0000-4000-8000-000000000001", c["caller_phone"])
         open(os.path.join(OUT, f"{lang}-{kind}.html"), "w", encoding="utf-8").write(html)

diff --git a/backend/tests/test_address.py b/backend/tests/test_address.py
@@ -127,15 +127,24 @@ class AddressInTheEmail(unittest.TestCase):
     def test_the_address_is_labelled_in_the_business_language_and_linked_to_maps(self):
         for lang, label, maps in (("en", "Address", "Open in Maps"), ("es", "Dirección", "Abrir en Maps"), ("fr", "Adresse", "Ouvrir dans Maps")):
             h = self.html(lang, ADDRESS)
-            self.assertIn(f"{label}:", h)
+            self.assertIn(f">{label}</div>", h)
             self.assertIn(ADDRESS, h)
             self.assertIn(maps, h)
             self.assertIn("https://www.google.com/maps/search/?api=1&amp;query=12%20rue%20des%20Lilas%2C%20Lyon", h)
 
     def test_no_address_shows_a_dash_and_no_link(self):
         h = self.html("en", None)
-        self.assertIn("Address:</strong> —", h)
+        self.assertRegex(h, r">Address</div><div[^>]*>—</div>")
         self.assertNotIn("google.com/maps", h)
+
+    def test_the_extraction_failed_email_keeps_the_same_row(self):
+        for lang, label, maps in (("en", "Address", "Open in Maps"), ("es", "Dirección", "Abrir en Maps"), ("fr", "Adresse", "Ouvrir dans Maps")):
+            _, h = notify.render_review_email({**BUSINESS, "language": lang}, "call-2", "+33600000001")
+            self.assertRegex(h, rf">{label}</div><div[^>]*>—</div>")  # nothing was extracted: a dash
+            _, h = notify.render_review_email({**BUSINESS, "language": lang}, "call-2", "+33600000001", address=ADDRESS)
+            self.assertIn(ADDRESS, h)
+            self.assertIn(maps, h)
+            self.assertIn("google.com/maps/search/?api=1&amp;query=12%20rue", h)
 
     def test_the_address_is_escaped(self):
         h = self.html("en", '<script>alert(1)</script> "x"')
